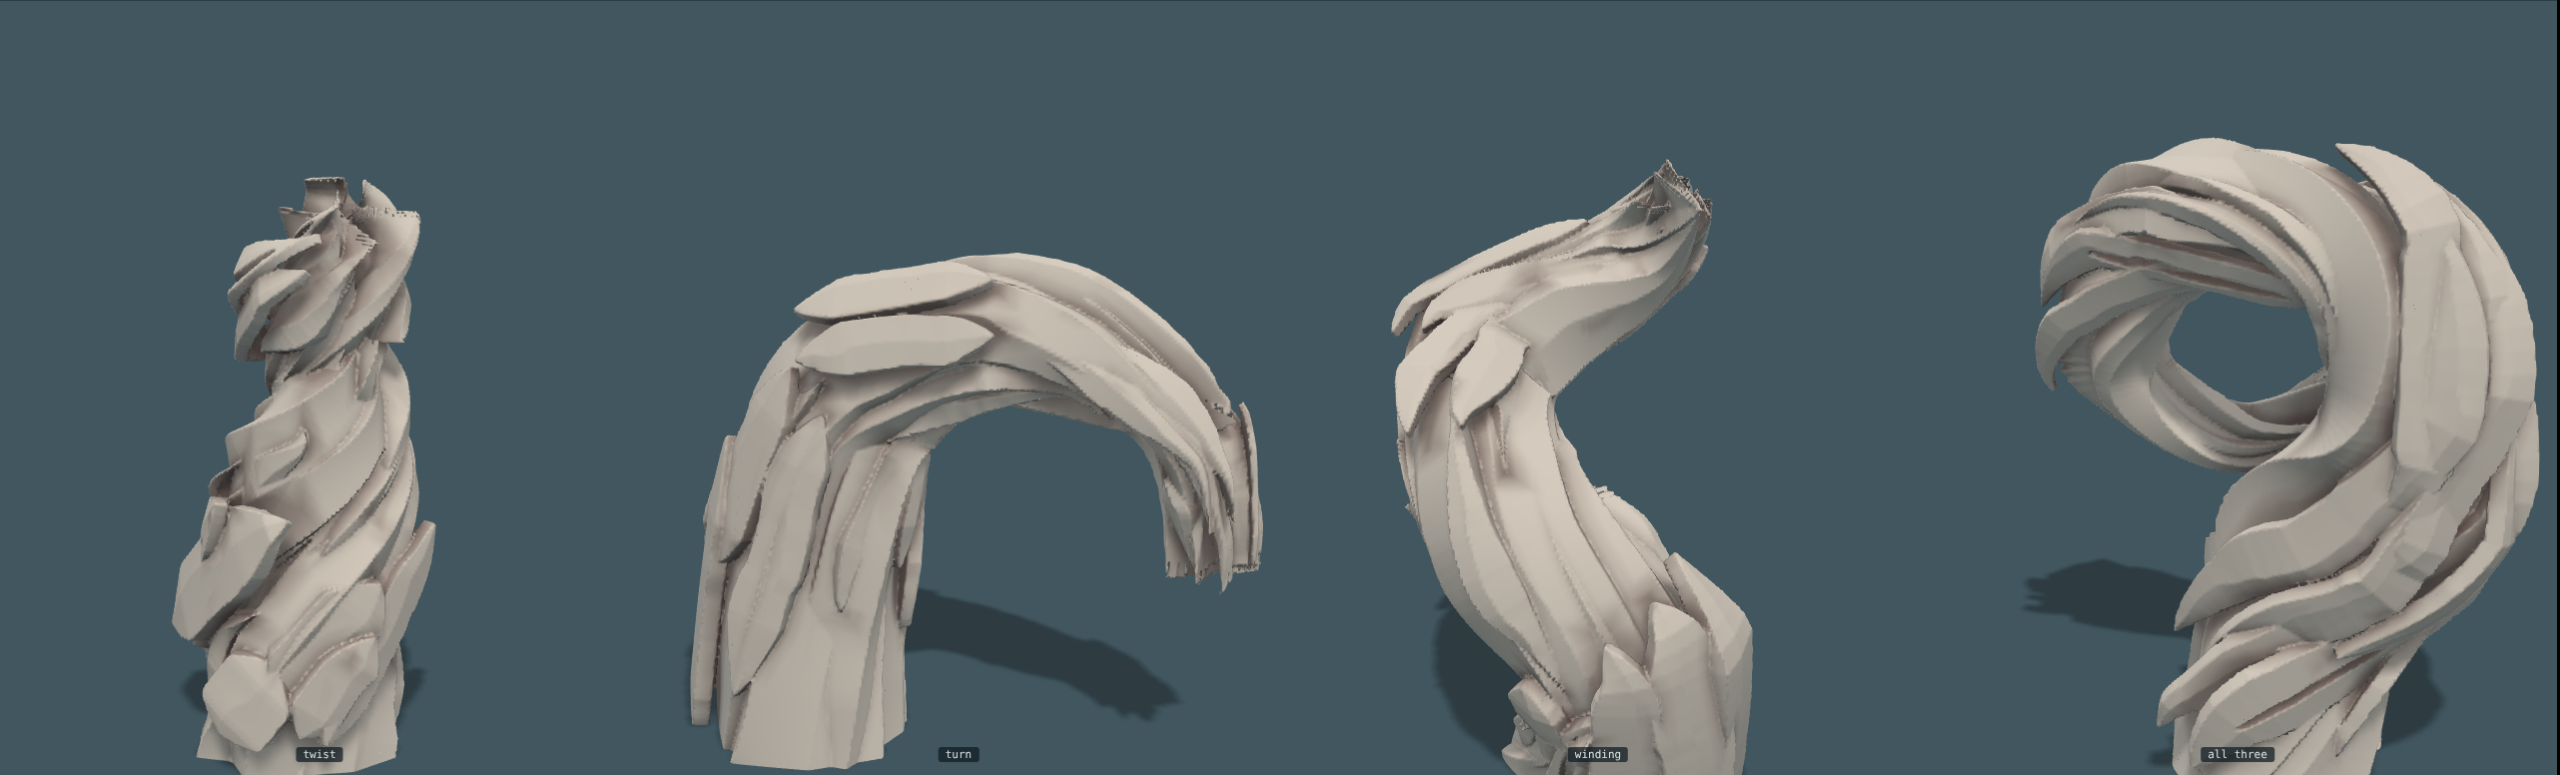
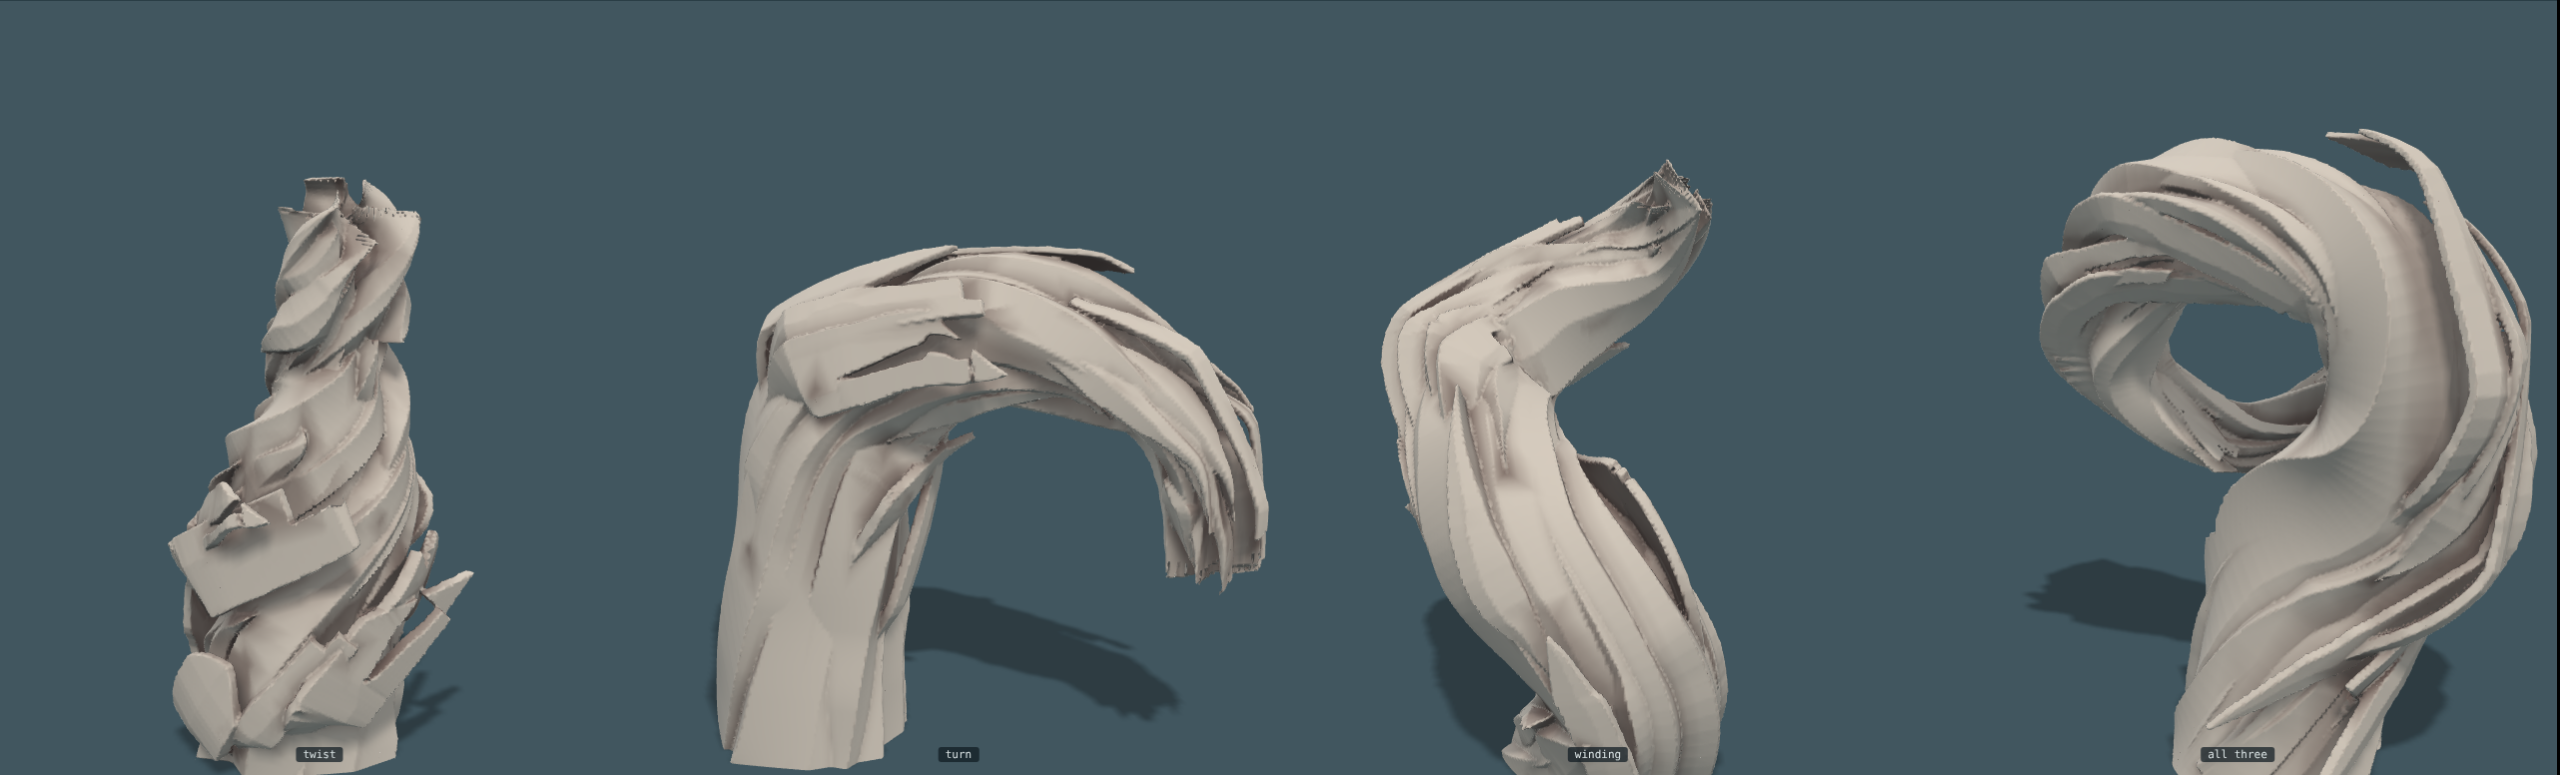
Sketchbook page 5: plates with a sunk back, a varied front and a direction; coarse splits replace cracks
Claude-Session: https://claude.ai/code/session_0192rgp75jGkttZXf7hEakip

diff --git a/sketch/page5.js b/sketch/page5.js
@@ -5,8 +5,8 @@
 // little give: it draws in or spreads, drifts and sinks. And its ridge and edges do not run true: they hold,
 // lean, and jog to one side, at uneven intervals.
 // Over that, in a few patches only, is a shell of the same wood: thin plates more rigid than what they sit
-// on, so they fit only where they are fixed and lift clear or bite in elsewhere.
-// Rarest of all, a band or a plate has a crack along it: a thin split that keeps to the grain.
+// on. Each has a direction: its back is sunk out of sight and its front lies on top, pointed, blunt or stepped.
+// Rarest of all, a band or a plate has split along the grain: a coarse gap, with one side lifted.
 // The same four test pieces: a twist, a turn, a winding, and all three.
 // Throwaway like the other pages. Built with the clay kit from cheats/fantastic.js.
 (function () {
@@ -35,7 +35,7 @@
     const n = K.C.length, L = [0], Tv = K.C.map((c, i) => unit([0, 1, 2].map((k) => K.C[Math.min(n - 1, i + 1)][k] - K.C[Math.max(0, i - 1)][k])));
     for (let i = 1; i < n; i++) L.push(L[i - 1] + H(K.C[i][0] - K.C[i - 1][0], K.C[i][1] - K.C[i - 1][1], K.C[i][2] - K.C[i - 1][2]));
     const rw = rng(K.seed), wmax = Math.max(0.05, ...K.W), jog = wander(L[n - 1], rw, wmax), rjog = wander(L[n - 1], rw, wmax);   // its whole run wanders a little side to side, and its ridge wanders more
-    const ck = K.crack, cjog = ck ? wander(L[n - 1], rng(K.seed + 7), wmax) : null;   // a crack keeps to the grain but has its own wandering line
+    const sp = K.split, sjog = sp ? wander(L[n - 1], rng(K.seed + 7), wmax * 0.5) : null;   // a split keeps to the grain, raggedly
     const f = (x, y, z) => {
       // the nearest stretch of its line: found roughly first, then exactly near there
       let near = 0, nd = 1e9; for (let i = 0; i < n; i += 6) { const c = K.C[i], q = (x - c[0]) ** 2 + (y - c[1]) ** 2 + (z - c[2]) ** 2; if (q < nd) { nd = q; near = i; } }
@@ -52,13 +52,18 @@
       const side = unit(cross(T, mix(K.O[bi], K.O[bi + 1], bt))), o = cross(side, T), d3 = [x - c[0], y - c[1], z - c[2]];
       const along = dot(d3, T), pre = at <= 0 || at >= n - 1 ? along : 0, v = dot(d3, o), w = lerp(K.W[bi], K.W[bi + 1], bt), h = lerp(K.Hh[bi], K.Hh[bi + 1], bt), s = lerp(L[bi], L[bi + 1], bt) + pre, u = dot(d3, side) - jog(s) * 0.16 * K.wiggle * w;
       const xm = clamp(K.ridge + rjog(s) * 0.3 * K.wiggle, -0.85, 0.85) * w, yl = h * K.eL, yr = h * K.eR, lx = -(h - yl), ly = xm + w, rx = h - yr, ry = w - xm;
-      // inside all of: the two faces of the roof, the two side walls, a floor well below, and the two ends
-      let d = Math.max(((u + w) * lx + (v - yl) * ly) / H(lx, ly), ((u - xm) * rx + (v - h) * ry) / H(rx, ry), -u - w, u - w, -v - K.deep, -s, s - L[n - 1] + K.skew * u, pre ? -1 : Math.abs(along) - 0.03);   // and never out past a fold in its own line
-      // a crack: a narrow split down from the face, widest and deepest at its middle and closing to nothing at both ends
-      if (ck && s > ck.s0 * L[n - 1] && s < ck.s1 * L[n - 1]) {
-        const open = Math.pow(Math.sin(PI * (s / L[n - 1] - ck.s0) / (ck.s1 - ck.s0)), 0.3), cu = clamp(ck.u + 0.2 * cjog(s), -0.75, 0.75) * w, top = cu < xm ? yl + (cu + w) * (h - yl) / (xm + w) : yr + (w - cu) * (h - yr) / (w - xm);
-        d = Math.max(d, ck.wide * open * (1 - Math.max(0, top - v) / (ck.deep * open + 1e-6)) - Math.abs(u - cu));
+      // a split: the band has parted along the grain. There is a gap between the two sides, and one side has
+      // lifted. Either it has opened from the band's front end and closes inward, or it gapes in the middle.
+      let vv = v, gap = 0, cu = 0;
+      if (sp && s > sp.s0 * L[n - 1] && s < sp.s1 * L[n - 1]) {
+        const t = (s / L[n - 1] - sp.s0) / (sp.s1 - sp.s0), open = sp.fromEnd ? Math.pow(t, 0.8) : Math.pow(Math.sin(PI * t), 0.6);
+        cu = clamp(sp.u + 0.25 * sjog(s), -0.6, 0.6) * w; gap = sp.wide * w * open; if (u > cu) vv = v - sp.lift * (h + K.deep) * open;
       }
+      // inside all of: the two faces of the roof, the two side walls, a floor below, and the two ends. The front end
+      // may be cut on the slant, or stepped: one side of it ending short of the other.
+      const cut = K.skew * u + (K.step && (u - K.step.u * w) * K.step.side > 0 ? K.step.a : 0);
+      let d = Math.max(((u + w) * lx + (vv - yl) * ly) / H(lx, ly), ((u - xm) * rx + (vv - h) * ry) / H(rx, ry), -u - w, u - w, -vv - K.deep, -s, s - L[n - 1] + cut, pre ? -1 : Math.abs(along) - 0.03);   // and never out past a fold in its own line
+      if (gap) d = Math.max(d, Math.min(gap - Math.abs(u - cu), v + sp.depth * K.deep));
       return d;
     };
     return { f, C: K.C, reach: K.C.map((c, i) => K.W[i] + K.Hh[i] + K.deep) };
@@ -69,9 +74,8 @@
     const M = 216, G = through(guide, M), frames = [], r = rng(o.seed || 1), r2 = rng((o.seed || 1) + 100), r3 = rng((o.seed || 1) + 200), r4 = rng((o.seed || 1) + 300), give = o.give === undefined ? 1 : o.give; let N = null;
     for (let i = 0; i <= M; i++) { const T = unit([0, 1, 2].map((k) => G[Math.min(M, i + 1)][k] - G[Math.max(0, i - 1)][k])); N = unit((N || [1, 0, 0.2]).map((v, k, A) => v - T[k] * dot(A, T))); frames.push([T, N, cross(T, N)]); }
     const all = []; let turns = o.turns;
-    // cracks are rarer than anything else here: one band of the inner wood has one, and two plates of the shell
-    const crackAt = { band: Math.floor(6 * r4()), plates: [Math.floor(10 * r4()), Math.floor(10 * r4())] }; let plates = 0;
-    const crack = (yes) => { const s0 = 0.06 + 0.25 * r4(), len = 0.45 + 0.35 * r4(), u = 0.8 * (r4() - 0.5), wide = 0.017 + 0.006 * r4(), deep = 0.06 + 0.04 * r4(); return yes && o.cracks !== 0 ? { s0, s1: Math.min(0.96, s0 + len), u, wide, deep } : null; };
+    // splits are rarer than anything else here: one band of the inner wood has one, and two plates of the shell
+    const splitAt = { band: Math.floor(6 * r4()), plates: [Math.floor(10 * r4()), Math.floor(10 * r4())] }; let plates = 0;
     const lay = (i0, i1, th0, rho, wide, high, lift, point, stiff, P) => {
       const fine = (q) => Math.min(1, (1 - q) / point, i0 ? q / 0.3 : 1);
       const C = [], O = [], W = [], Hh = [], n = i1 - i0; let run = 0, straight = null, T0 = null;
@@ -93,33 +97,48 @@
     };
     // the wide ones: side by side all the way round, most from the ground up, ending at different heights
     const nA = o.wide || 6;
-    for (let j = 0; j < nA; j++) lay(0, Math.round(M * (j % 3 === 0 ? 1 : 0.55 + 0.45 * r())), o.phase + TAU * (j + 0.4 * (r() - 0.5)) / nA, 0.56, 3.6 / nA * (0.85 + 0.3 * r()), 0.2 + 0.2 * r(), 0, 0.3, o.stiff * 0.3, { ridge: 0.7 * (r() - 0.5), eL: 0.2 + 0.5 * r(), eR: 0.2 + 0.5 * r(), skew: 1.5 * (r() - 0.5), crack: crack(j === crackAt.band) });
+    for (let j = 0; j < nA; j++) lay(0, Math.round(M * (j % 3 === 0 ? 1 : 0.55 + 0.45 * r())), o.phase + TAU * (j + 0.4 * (r() - 0.5)) / nA, 0.56, 3.6 / nA * (0.85 + 0.3 * r()), 0.2 + 0.2 * r(), 0, 0.3, o.stiff * 0.3, { ridge: 0.7 * (r() - 0.5), eL: 0.2 + 0.5 * r(), eR: 0.2 + 0.5 * r(), skew: 1.5 * (r() - 0.5), split: j === splitAt.band && o.splits !== 0 ? { s0: 0.18 + 0.2 * r4(), s1: 0.62 + 0.25 * r4(), u: 0.5 * (r4() - 0.5), wide: 0.16 + 0.1 * r4(), lift: 0.12 + 0.1 * r4(), depth: 0.45 } : null });
     // the narrow ones: anywhere, any length, their far ends lifting
     for (let j = 0; j < (o.narrow || 14); j++) { const i0 = Math.round(M * 0.86 * r()), len = Math.round(M * (0.12 + 0.3 * r()));
       lay(i0, Math.min(M, i0 + len), TAU * r(), 0.7 + 0.1 * r(), 0.2 + 0.2 * r(), 0.14 + 0.14 * r(), o.lift * (0.4 + r()), 0.6, o.stiff, { ridge: 0.8 * (r() - 0.5), eL: 0.1 + 0.6 * r(), eR: 0.1 + 0.6 * r(), skew: 2 * (r() - 0.5) }); }
     // the shell: the same wood again, as plates, in a few patches and nowhere else. A plate is more rigid
-    // than what it sits on. It is fixed at its middle and hardly bends or twists from there, so it fits only
-    // at that place: where the piece curves away from it its ends lift clear and leave a gap beneath, and
-    // where the piece curves toward it they bite in. A plate is thin, so the gap shows.
-    const plate = (mid, half, th0, rho, wide, high, P) => {
-      const i0 = Math.max(0, mid - half), i1 = Math.min(M, mid + half), on = [], outs = [], Rs = []; if (i1 - i0 < 8) return;
-      for (let i = i0; i <= i1; i += 2) { const [, Nn, Bn] = frames[i], R = G[i][3], th = th0 + TAU * o.turns * Math.pow(i / M, o.ramp || 1), out = [0, 1, 2].map((k) => Nn[k] * Math.cos(th) + Bn[k] * Math.sin(th)); on.push([0, 1, 2].map((k) => G[i][k] + out[k] * R * rho)); outs.push(out); Rs.push(R); }
-      const n = on.length, km = clamp(Math.round((mid - i0) / 2), 1, n - 2), Tm = unit([0, 1, 2].map((k) => on[km + 1][k] - on[km - 1][k])), arc = new Array(n).fill(0);
+    // than what it sits on, and it has a direction. Its back is sunk into the wood, deep enough that where it
+    // ends cannot be seen. From there it comes up through the surface and its front lies on top, clear of
+    // what is under it. Nearly all plates point the same way, back toward the foot of the piece and front
+    // toward its tip; now and then one is the other way round. The front is not always a point: it may be cut
+    // off blunt, or stepped, one side of it ending short of the other.
+    const plate = (i0, i1, forward, th0, wide, high, ending, P) => {
+      i0 = Math.max(0, i0); i1 = Math.min(M, i1); if (i1 - i0 < 10) return;
+      const on = [], outs = [], Rs = [], qs = [];
+      for (let i = forward ? i0 : i1; forward ? i <= i1 : i >= i0; i += forward ? 2 : -2) {   // from its back to its front
+        const [, Nn, Bn] = frames[i], R = G[i][3], q = Math.abs(i - (forward ? i0 : i1)) / (i1 - i0), th = th0 + TAU * o.turns * Math.pow(i / M, o.ramp || 1), out = [0, 1, 2].map((k) => Nn[k] * Math.cos(th) + Bn[k] * Math.sin(th));
+        const rho = 0.42 + 0.63 * sstep(0, 0.5, q) + 0.1 * q * q;
+        on.push([0, 1, 2].map((k) => G[i][k] + out[k] * R * rho)); outs.push(out); Rs.push(R); qs.push(q);
+      }
+      const n = on.length, km = clamp(Math.round(n * 0.62), 1, n - 2), Tm = unit([0, 1, 2].map((k) => on[km + 1][k] - on[km - 1][k])), arc = new Array(n).fill(0);
       for (let k = km + 1; k < n; k++) arc[k] = arc[k - 1] + H(on[k][0] - on[k - 1][0], on[k][1] - on[k - 1][1], on[k][2] - on[k - 1][2]);
       for (let k = km - 1; k >= 0; k--) arc[k] = arc[k + 1] - H(on[k][0] - on[k + 1][0], on[k][1] - on[k + 1][1], on[k][2] - on[k + 1][2]);
       const rigid = o.rigid === undefined ? 0.8 : o.rigid, C = [], O = [], W = [], Hh = [];
       for (let k = 0; k < n; k++) {
-        // part way between lying on the piece and running dead straight through its middle, and never more than a third of a girth off
-        const off = [0, 1, 2].map((q) => on[km][q] + Tm[q] * arc[k] - on[k][q]), far = H(off[0], off[1], off[2]) || 1e-9, stay = Math.min(rigid, 0.3 * Rs[k] / far), end = Math.min(1, k / (n * 0.22), (n - 1 - k) / (n * 0.22));
-        C.push([0, 1, 2].map((q) => on[k][q] + off[q] * stay)); O.push(unit(mix(outs[k], outs[km], rigid))); W.push(Math.max(0.004, Rs[k] * wide * Math.pow(end, 0.7))); Hh.push(Rs[k] * high * (0.5 + 0.5 * end));
+        // part way between lying on the piece and running dead straight, and never more than a third of a girth off
+        const off = [0, 1, 2].map((q) => on[km][q] + Tm[q] * arc[k] - on[k][q]), far = H(off[0], off[1], off[2]) || 1e-9, stay = Math.min(rigid, 0.3 * Rs[k] / far);
+        const front = ending === 'point' ? Math.pow(Math.min(1, (1 - qs[k]) / 0.3), 0.7) : 1, back = 0.55 + 0.45 * sstep(0, 0.35, qs[k]);
+        C.push([0, 1, 2].map((q) => on[k][q] + off[q] * stay)); O.push(unit(mix(outs[k], outs[km], rigid))); W.push(Math.max(0.004, Rs[k] * wide * front * back)); Hh.push(Rs[k] * high * (0.5 + 0.5 * front) * (1 - 0.45 * qs[k] * qs[k]));   // thinner toward its front
       }
-      all.push(shard(Object.assign({ C, O, W, Hh, deep: Rs[km] * 0.1, seed: 1 + Math.floor(r3() * 1e6), wiggle: o.wiggle === undefined ? 1 : o.wiggle }, P)));
+      const w1 = Rs[n - 1] * wide, r5 = rng(1 + Math.floor(r3() * 1e6));
+      const end = ending === 'step' ? { skew: 0.4 * (r5() - 0.5), step: { u: 0.5 * (r5() - 0.5), side: r5() < 0.5 ? -1 : 1, a: w1 * (0.9 + 1.2 * r5()) } } : ending === 'blunt' ? { skew: (r5() < 0.5 ? -1 : 1) * (0.5 + 0.9 * r5()) } : { skew: 0 };   // a blunt front is cut on the slant, never square
+      all.push(shard(Object.assign({ C, O, W, Hh, deep: Rs[km] * 0.06, seed: 1 + Math.floor(r5() * 1e6), wiggle: o.wiggle === undefined ? 1 : o.wiggle }, P, end)));
     };
-    // a patch is two or three plates side by side, like one sheet that has split along the grain
+    // a patch is one to three plates near each other, of unlike length and width, set off from each other along
+    // the piece, with unlike fronts
     for (let j = 0; j < (o.patches === undefined ? 5 : o.patches); j++) {
-      const mid = Math.round(M * (0.14 + 0.72 * r3())), half = Math.round(M * (0.07 + 0.08 * r3())), th = TAU * r3(), rho = 0.92 + 0.16 * r3(), m = r3() < 0.5 ? 2 : 3;
-      for (let k = 0; k < m; k++) { const wide = 0.26 + 0.14 * r3();
-        plate(mid + Math.round(M * 0.08 * (r3() - 0.5)), Math.round(half * (0.7 + 0.5 * r3())), th + (k - (m - 1) / 2) * 0.62, rho + 0.06 * (r3() - 0.5), wide, 0.1 + 0.05 * r3(), { ridge: 0.6 * (r3() - 0.5), eL: 0.5 + 0.4 * r3(), eR: 0.5 + 0.4 * r3(), skew: 0, crack: crack(crackAt.plates.includes(plates++)) }); }
+      const mid = Math.round(M * (0.14 + 0.72 * r3())), half = Math.round(M * (0.08 + 0.09 * r3())), th = TAU * r3(), u = r3(), m = u < 0.25 ? 1 : u < 0.65 ? 2 : 3, forward = r3() < 0.9; let at = th - 0.3 * (m - 1);
+      for (let k = 0; k < m; k++) {
+        const wide = 0.2 + 0.24 * r3(), h2 = Math.round(half * (0.55 + 0.8 * r3())), c = mid + Math.round(M * 0.14 * (r3() - 0.5)), e = r3(), split = splitAt.plates.includes(plates++) && o.splits !== 0;
+        plate(c - h2, c + h2, forward, at, wide, 0.08 + 0.05 * r3(), split ? 'blunt' : e < 0.3 ? 'point' : e < 0.62 ? 'blunt' : 'step', { ridge: 0.6 * (r3() - 0.5), eL: 0.5 + 0.4 * r3(), eR: 0.5 + 0.4 * r3(),
+          split: split ? { fromEnd: true, s0: 0.42 + 0.2 * r4(), s1: 1.001, u: 0.4 * (r4() - 0.5), wide: 0.2 + 0.12 * r4(), lift: 0.5 + 0.5 * r4(), depth: 9 } : null });
+        at += 0.36 + 0.5 * wide;
+      }
     }
     // which shards are near which place, so that only those are asked
     const cell = 0.12, grid = new Map(), key = (x, y, z) => (x + 64) * 16384 + (y + 64) * 128 + z + 64;

diff --git a/LOG.md b/LOG.md
@@ -880,3 +880,37 @@ lines. Widened again to about three cells at the mouth.
 Not there: with three a piece most land out of sight from any one side;
 from the front of the page as it opens, hardly one shows. Crack ends are
 still dotted where they close. No crack crosses from one band to the next.
+
+**Cracks withdrawn**: "more like a laser etching into plastic." The word
+wanted is splits, coarse splits. Kept as `sketch/page5-cracks-withdrawn.png`.
+
+And on the shell: its atom, an elongated diamond, is sufficient, but can be
+recognised once it is repeated, "and the art magic becomes undone." Three
+tricks given for hiding it, all taken:
+
+- The back of a plate dips into the core wood deep enough that its end
+  cannot be seen.
+- The front has more than one ending: a point, a blunt end, or a step (an
+  L, one side ending short of the other).
+- Direction. Which end is sunk (the back) and which lies on top (the
+  front) is what gives a plate direction, and the first shell had none:
+  each plate was fixed at its middle, so both ends did the same thing.
+  About nine in ten now point forward, back toward the foot of the piece
+  and front toward its tip; the rest are reversed.
+
+Also changed in the shell: a patch is one to three plates of unlike length
+and width, set off from each other along the piece. Plates thin toward the
+front, and a blunt front is always cut on the slant.
+
+Splits: a band parts along the grain, with a ragged gap between the two
+sides and one side lifted. On a plate the split opens from the front end
+and closes inward, so the front forks. On a band of the inner wood it gapes
+in the middle. Three a piece as before.
+`sketch/page5.png`, `sketch/page5-close.png`.
+
+On the way: with blunt and stepped fronts at full thickness the plates
+read as sawn planks. Thinner, tapering, and slant-cut is better.
+
+Not there: the foot of the twist is a jumble of plates; a blunt or stepped
+front still has a little of the plank about it where it is seen square on;
+the inner band's split is deep and dark, more a trench than a split.
